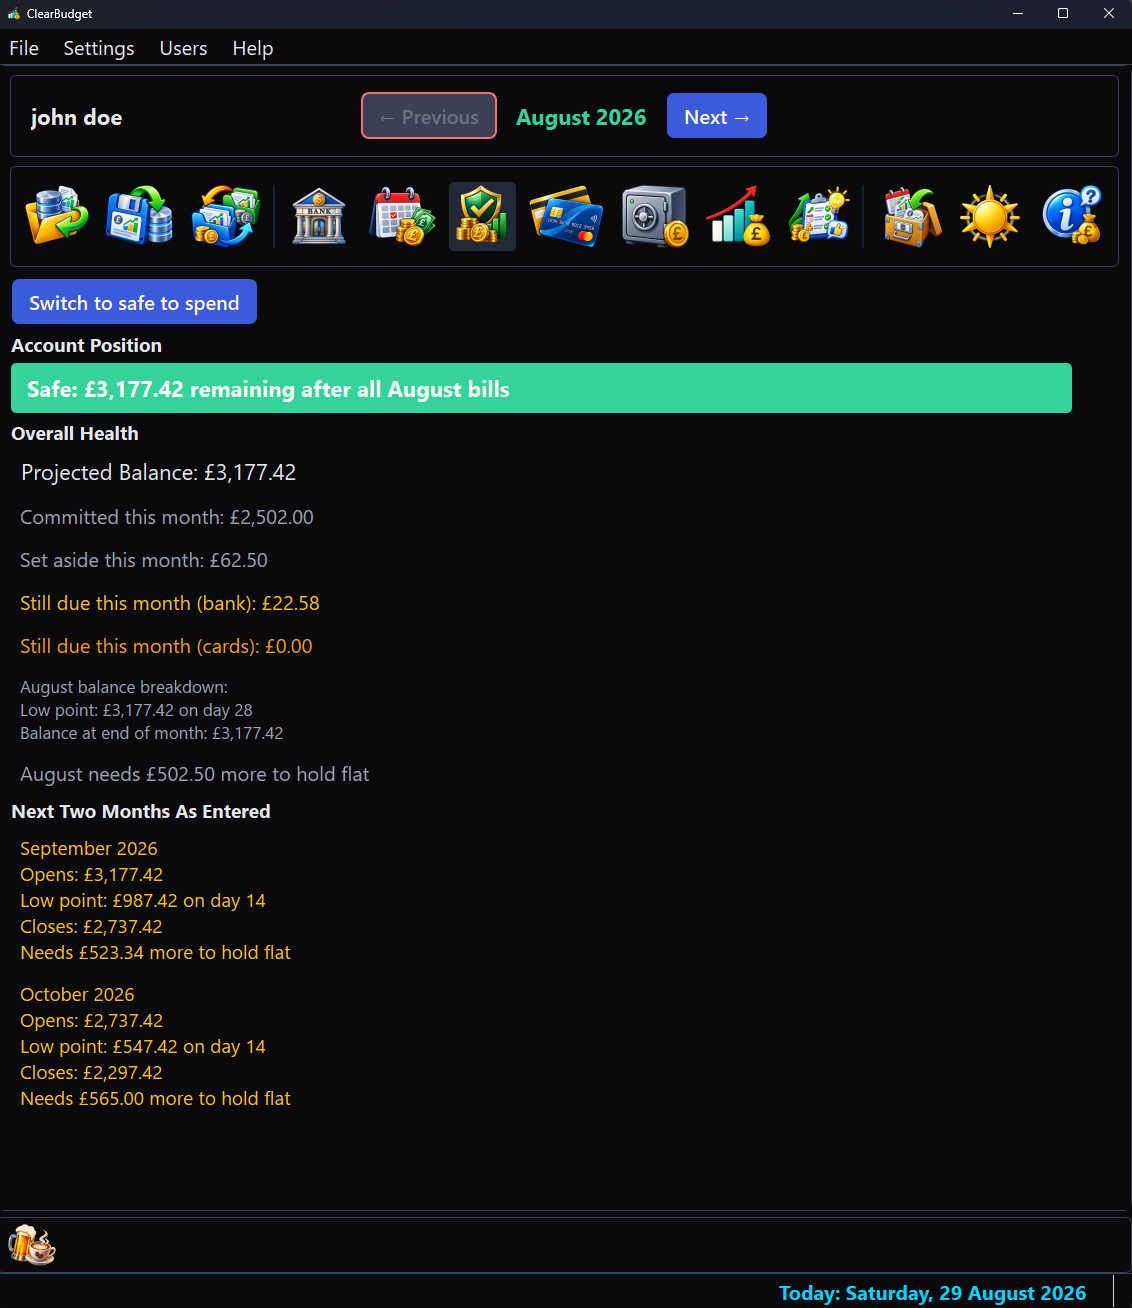
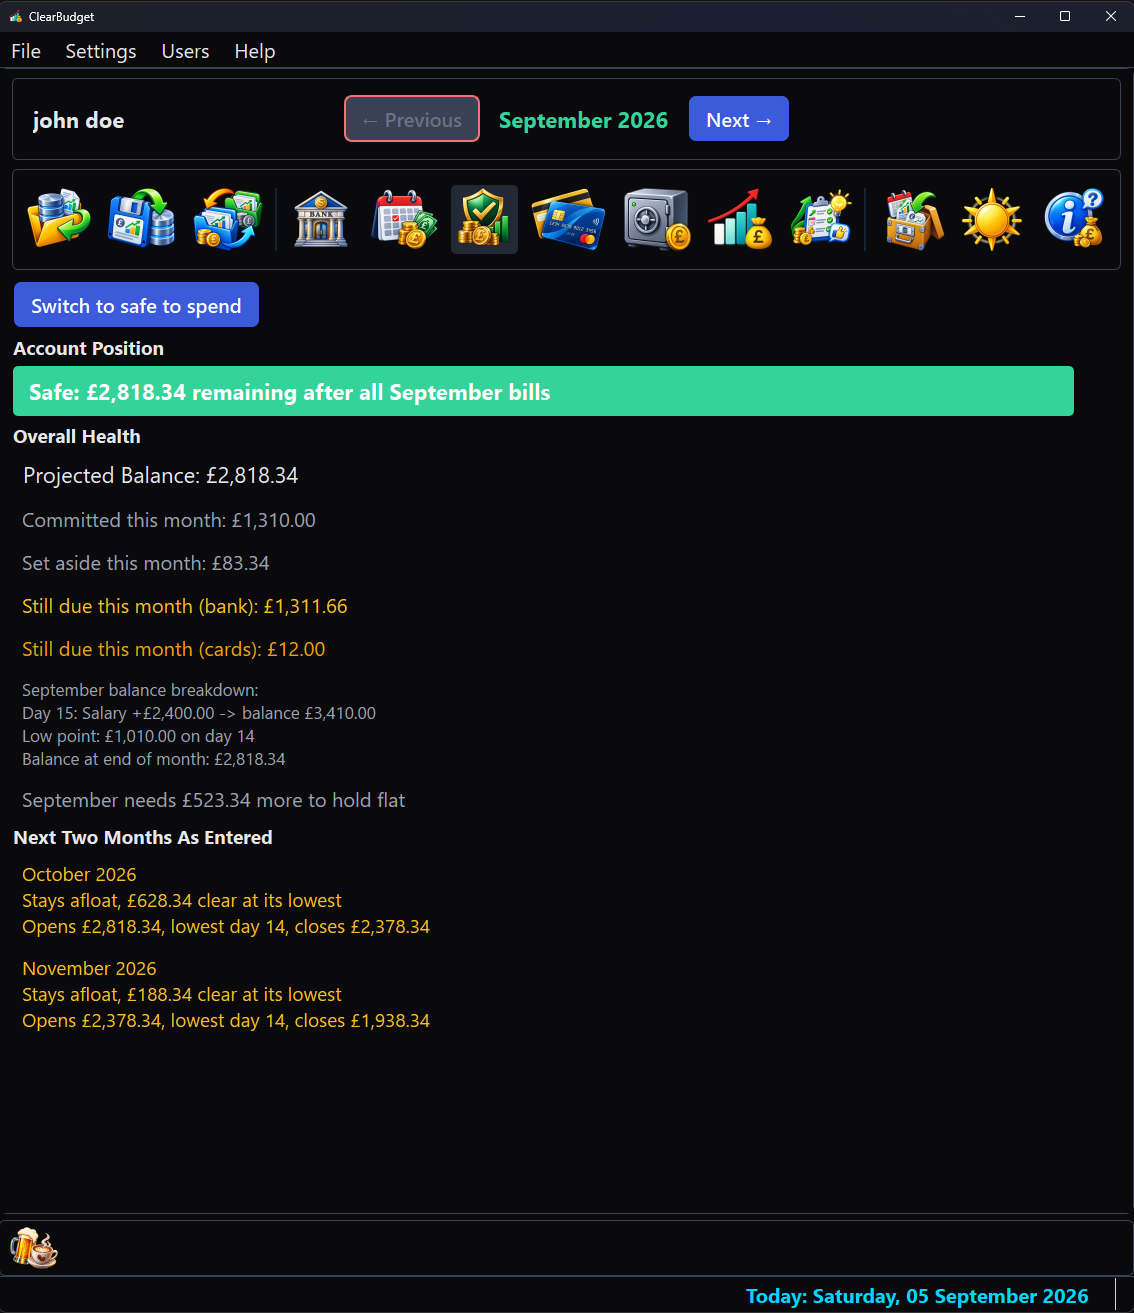
Reshoot the Solvency pages and describe what they now show
The bank shot and the Safe to Spend shot are retaken on the current sample budget, so the forward projection appears in the two-line form: each month leads with its verdict and carries the shape it was read off underneath.

The alt text and figcaption for the bank shot described an amber Caution banner and a December overdrawn on day 10. Neither was in the picture they were attached to, which had already moved on before this reshoot. Both are rewritten on the screenshots page and on the home page against the picture as it now stands.

Changed region(s): [[0.0, 0.0, 1.0, 0.8563], [0.0, 0.9174, 1.0, 0.9786], [0.6493, 0.9786, 0.9585, 1.0]]

diff --git a/docs/screenshots.html b/docs/screenshots.html
@@ -74,9 +74,9 @@
 
             <figure class="shot" id="bank">
                 <h3>Whether it holds</h3>
-                <p>The bank page answers one question from money you have actually entered. It states the account position, then walks the next two months day by day, each led by the money that would keep it afloat and the day that sum has to beat. A month that cannot hold is not merely flagged; it is priced and dated.</p>
-                <img src="screenshots/solvency1.png" alt="The Solvency view's bank page for the sample budget: an amber Caution banner wrapping over two lines, naming the balance after October's bills, the monthly drain and the month an overdraft first lands in; an Overall Health breakdown including what the month sets aside; then a Next Two Months As Entered block where November holds and December is marked overdrawn by day 10 in red, with no overdraft facility." loading="lazy" decoding="async">
-                <figcaption>Solvency, bank page. The banner prices the whole position in one sentence: what October closes with, how fast savings are falling and the month an overdraft first lands in. What the month sets aside counts beside its bills, so a month that cannot cover its own reserve reads as short. December goes overdrawn with no facility arranged, which is a payment being refused rather than a warning about borrowing.</figcaption>
+                <p>The bank page answers one question from money you have actually entered. It states the account position, then walks the next two months day by day, each led by its verdict: a month that holds names the clearance it keeps at its lowest; a month that does not names the money it needs and the day that sum has to beat. Nothing here is merely flagged.</p>
+                <img src="screenshots/solvency1.png" alt="The Solvency view's bank page for the sample budget: a green Safe banner giving the balance remaining after all of September's bills; an Overall Health breakdown listing what is committed, what is set aside and what is still due from the bank and from the cards; the month's own day-by-day reading with its low point and what it would need to hold flat; then a Next Two Months As Entered block where October and November each read Stays afloat with the clearance they keep at their lowest, above a line giving where the month opens, where it dips and where it closes." loading="lazy" decoding="async">
+                <figcaption>Solvency, bank page. The sample month clears its bills, so the banner is green; the figures beneath still price it honestly, naming what it sets aside and the £523.34 it would need to stop running at a loss. Each forecast month leads with its verdict and carries the shape behind it underneath, so the clearance quoted can be checked by eye against the low it was read off. A month that could not hold would name the money it needs and the day that money has to beat.</figcaption>
             </figure>
 
             <figure class="shot" id="safe-to-spend">

diff --git a/docs/index.html b/docs/index.html
@@ -106,9 +106,9 @@
         <section class="section" id="verdict" aria-label="The solvency verdict" style="margin-top:8px;">
             <figure class="hero-shot">
                 <a href="screenshots.html#bank">
-                    <img src="screenshots/solvency1.png" alt="The Solvency view of a sample budget: an amber Caution banner naming the balance after the month's bills, the monthly drain and the month an overdraft first lands in, a health breakdown including what the month sets aside, then the next two months walked day by day with the second marked overdrawn by day 10 in red and priced." fetchpriority="high" decoding="async">
+                    <img src="screenshots/solvency1.png" alt="The Solvency view of a sample budget: a green Safe banner naming the balance remaining after all of the month's bills, a health breakdown including what the month sets aside and what it would need to stop running at a loss, then the next two months walked day by day, each stating that it stays afloat, the clearance it keeps at its lowest and where it opens, dips and closes." fetchpriority="high" decoding="async">
                 </a>
-                <figcaption>The verdict page, on an invented sample budget: this month closes in credit but is quietly draining, the next holds and the one after goes overdrawn on day 10, priced at exactly what it needs. That is the product.</figcaption>
+                <figcaption>The verdict page, on an invented sample budget: this month closes in credit while still running at a loss; the two months after it hold, each naming the clearance it keeps at its lowest and the shape that clearance was read off. A month that could not hold would be priced instead, down to the day the money has to beat. That is the product.</figcaption>
             </figure>
         </section>
 
